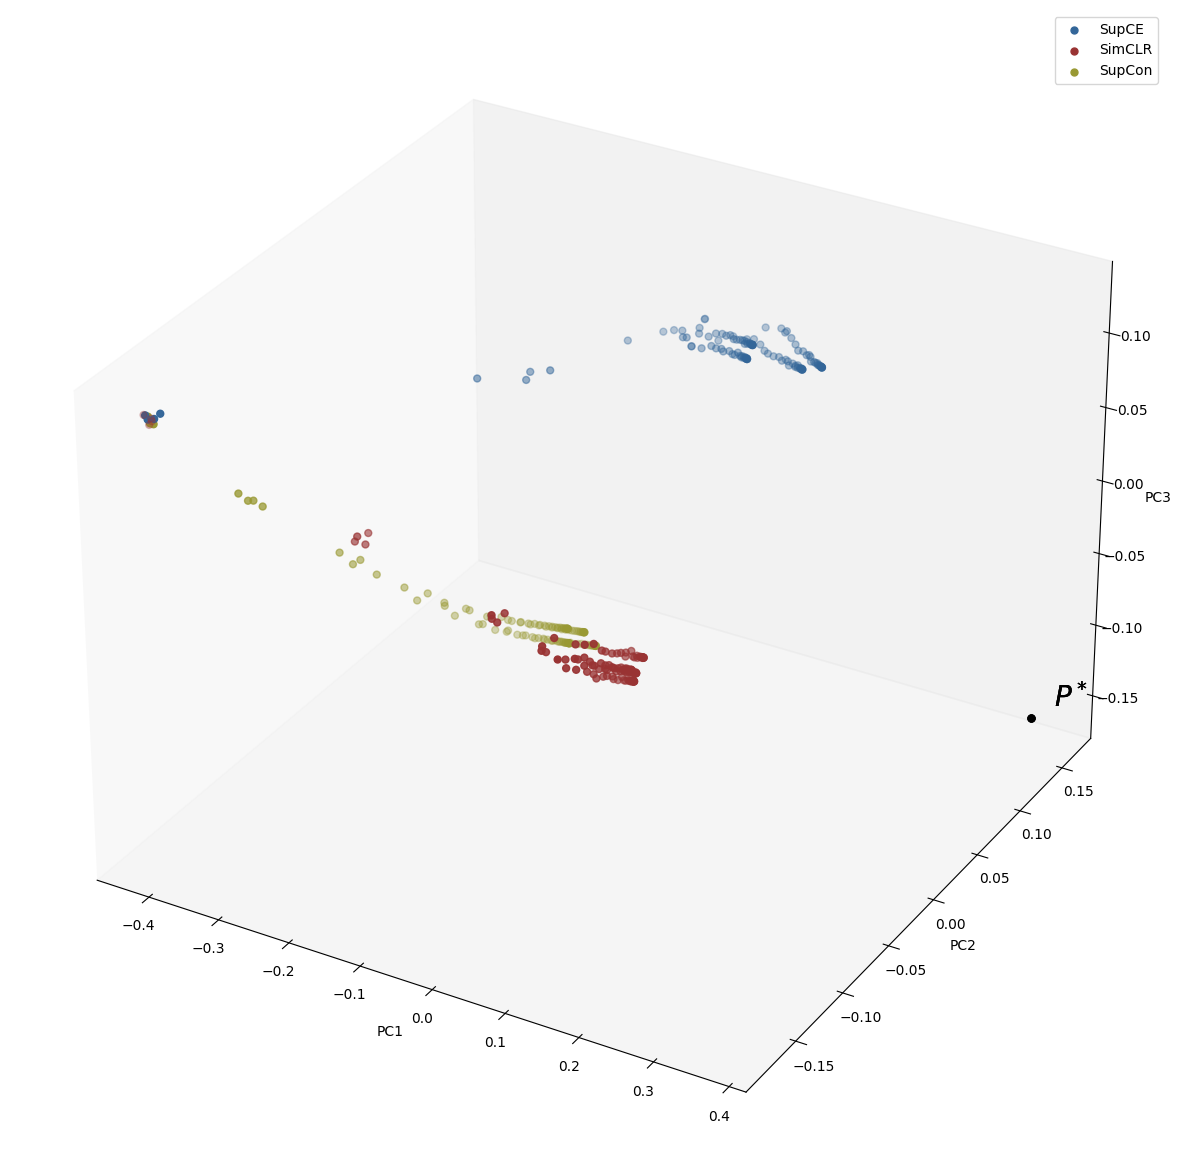
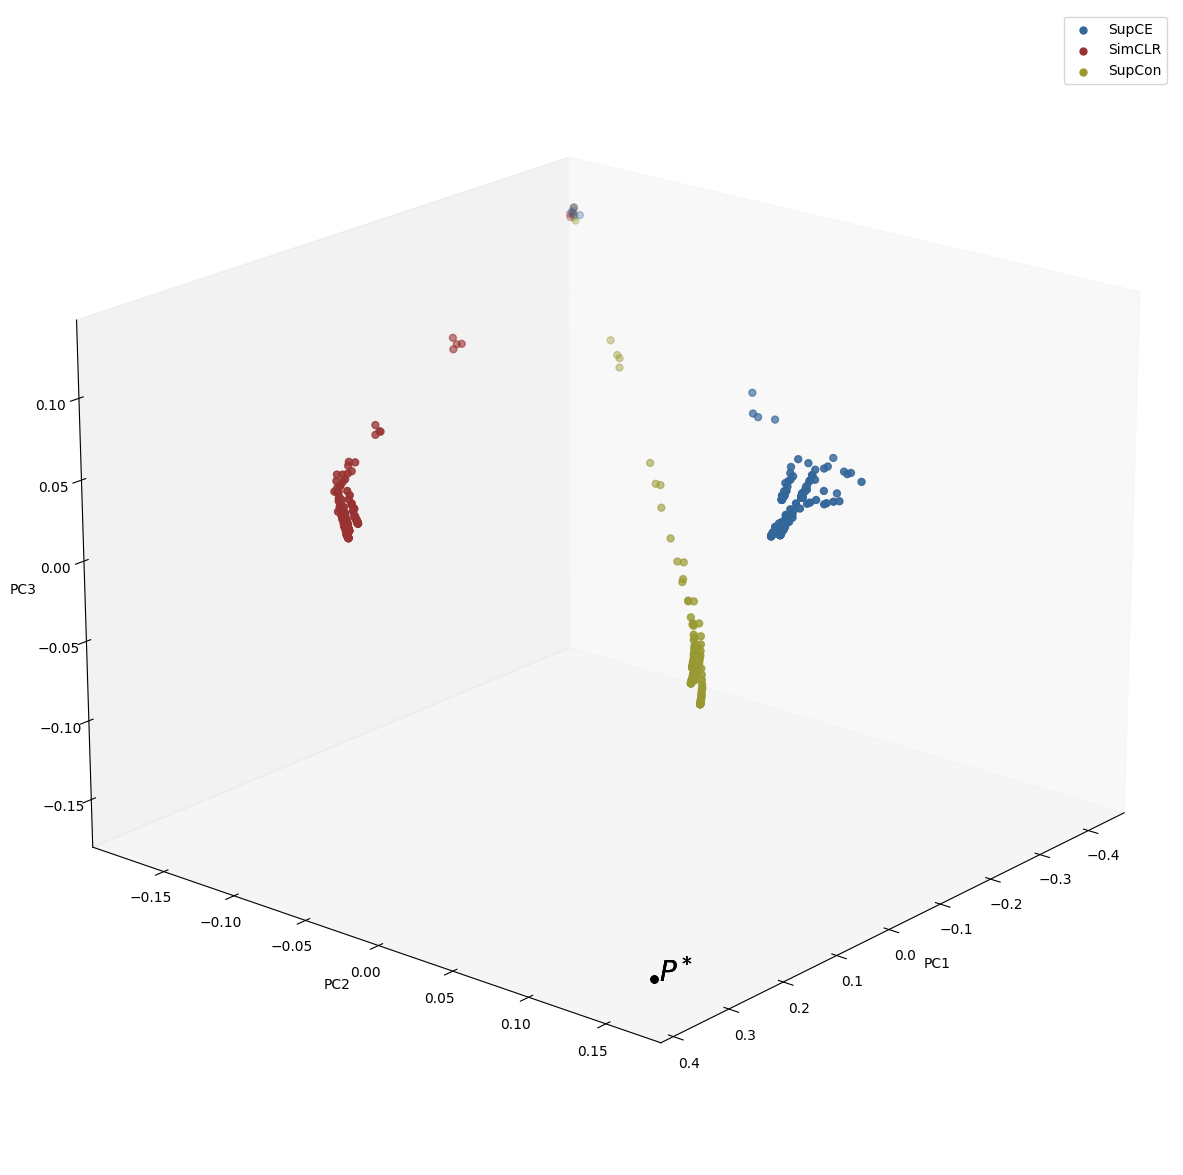
final commit

diff --git a/plot_trajectory.py b/plot_trajectory.py
@@ -7,6 +7,9 @@ import torch
 import warnings
 import argparse
 warnings.filterwarnings('ignore')
+import matplotlib
+matplotlib.rcParams['mathtext.fontset'] = 'stix'
+matplotlib.rcParams['font.family'] = 'STIXGeneral'
 
 
 def plot_progress(progress_dict, save_path=None):
@@ -18,12 +21,43 @@ def plot_progress(progress_dict, save_path=None):
 
         ax[ctr // 2, ctr % 2].set_title(task_title)
         ax[ctr // 2, ctr % 2].set_xlabel("Epoch")
-        ax[ctr // 2, ctr % 2].set_ylabel("Progress")
+        ax[ctr // 2, ctr % 2].set_ylabel(r"$t_w$")
         ax[ctr // 2, ctr % 2].legend()
 
     if save_path is not None:
         plt.savefig(save_path + ".png", dpi=300, bbox_inches='tight')
     
+    return fig, ax
+
+def plot_progress_matrix(progress_dict, save_path=None):
+    # plot a matrix of the progress dictionary by task and method
+    progress_matrix = np.zeros((len(progress_dict), len(progress_dict[list(progress_dict.keys())[0]])))
+    for ctr, (task_title, task_progress) in enumerate(progress_dict.items()):
+        for method_name, (progress, std) in task_progress.items():
+            progress_matrix[ctr, list(task_progress.keys()).index(method_name)] = progress[-1]
+
+    fig, ax = plt.subplots(1, 1, figsize=(10, 10))
+    im = ax.imshow(progress_matrix, cmap='viridis', interpolation='nearest')
+    cbar = ax.figure.colorbar(im, ax=ax)
+    cbar.ax.set_ylabel(r'$t_w$', rotation=-90, va="bottom", fontsize = 20)
+
+    ax.set_xticks(np.arange(len(progress_dict[list(progress_dict.keys())[0]])))
+    ax.set_yticks(np.arange(len(progress_dict)))
+    ax.set_xticklabels(list(progress_dict[list(progress_dict.keys())[0]].keys()))   
+    ax.set_yticklabels(list(progress_dict.keys()))
+
+    for i in range(len(progress_dict)):
+        for j in range(len(progress_dict[list(progress_dict.keys())[0]])):
+            text = ax.text(j, i, round(progress_matrix[i, j], 2), ha="center", va="center", color="w")
+
+    # Highlight the max value in each row by putting a red border around the box
+    for i in range(len(progress_dict)):
+        max_index = np.argmax(progress_matrix[i, :])
+        ax.add_patch(plt.Rectangle((max_index - 0.5, i - 0.5), 1, 1, fill=False, edgecolor='red', lw=3))
+    
+    if save_path is not None:
+        plt.savefig(save_path + ".png", dpi=300, bbox_inches='tight')
+
     return fig, ax
 
 
@@ -129,7 +163,9 @@ def main(plots):
     if "finetuning_progress" in plots:
         save_path = f"progress_plots/finetuning/"
         os.makedirs(save_path, exist_ok=True)
-        plot_progress(finetuning_progress, save_path=f"{save_path}finetuning") 
+        plot_progress(finetuning_progress, save_path=f"{save_path}finetuning_progress")
+        plot_progress_matrix(finetuning_progress, save_path=f"{save_path}finetuning_progress_matrix")
+
 
 
 if __name__ == "__main__":

diff --git a/inpca_plots.py b/inpca_plots.py
@@ -122,7 +122,7 @@ def main(cfg):
     all_finetuning = np.stack((finetuning_supce_all_seeds, finetuning_simclr_all_seeds, finetuning_supcon_all_seeds), axis=0)
 
     # reduce representation
-    pretraining_reduced = reduce_rep(all_pretraining, inpca=True, dynamic_shape=False) 
+    # pretraining_reduced = reduce_rep(all_pretraining, inpca=True, dynamic_shape=False) 
     finetuning_reduced = reduce_rep(all_finetuning, inpca=True, dynamic_shape=False)  
 
     # plot inpca
@@ -130,8 +130,8 @@ def main(cfg):
     print(save_path)
     os.makedirs(save_path, exist_ok=True)
 
-    plot_inpca(pretraining_reduced, 3, labels = ["SupCE", "SimCLR", "SupCon"], azimuth=cfg.plot_inpca.azimuth, elevation=cfg.plot_inpca.elevation, save_path=f"{save_path}pretraining", plot_true_probs = False)
-    plot_inpca(finetuning_reduced, 3, labels = ["SupCE", "SimCLR", "SupCon"], save_path=f"{save_path}finetuning", plot_true_probs = True)  
+    # plot_inpca(pretraining_reduced, 3, labels = ["SupCE", "SimCLR", "SupCon"], azimuth=cfg.plot_inpca.azimuth, elevation=cfg.plot_inpca.elevation, save_path=f"{save_path}pretraining", plot_true_probs = False)
+    plot_inpca(finetuning_reduced, 3, labels = ["SupCE", "SimCLR", "SupCon"], azimuth = 40, elevation = 20, save_path=f"{save_path}finetuning", plot_true_probs = True)  
 
 
 if __name__ == "__main__":
